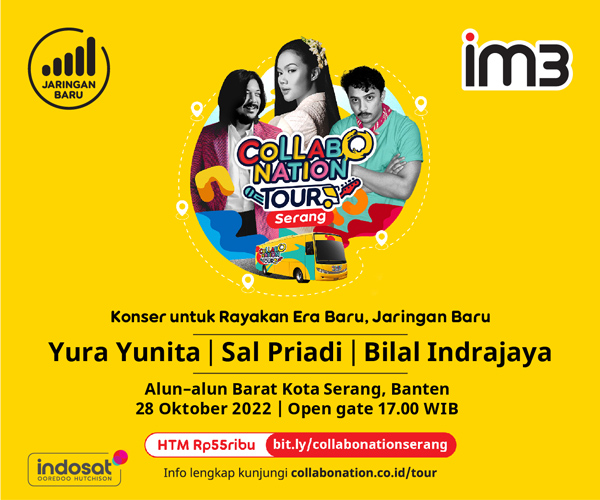
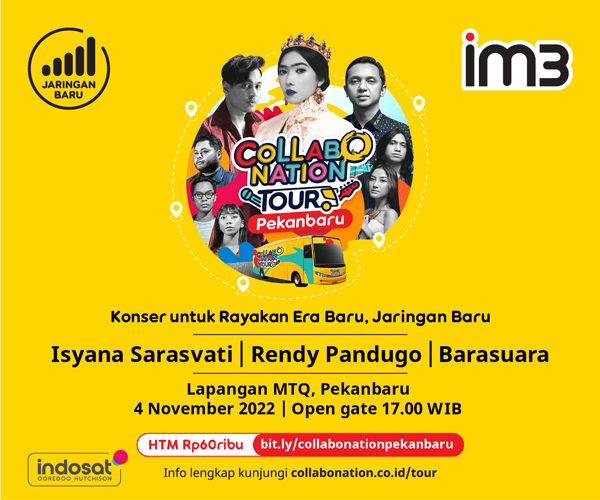
awd

Changed region(s): [[0.27, 0.06, 0.72, 0.6], [0.06, 0.66, 0.93, 0.93]]

diff --git a/m.idntimes/inarticle/im3/index.html b/m.idntimes/inarticle/im3/index.html
@@ -1541,7 +1541,7 @@ function callAnalytics(path, queryString) {
             <!-- 300x250 -->
             
             <div class="wrapper-ads inarticle-ads-wrapper"> 
-                <a href="https://collabonation.co.id/tour/collabonation-tour-serang-1666696892?utm_source=website&utm_medium=socialwebsite&utm_campaign=collabonationtourserangsocial&utm_term=collabonationtourserang&utm_content=website" target="_blank" style="position: relative;left: 0;right: 0;margin: auto;">
+                <a href="https://collabonation.co.id/tour/collabonation-tour-pekanbaru-1667291179" target="_blank" style="position: relative;left: 0;right: 0;margin: auto;">
                     <img src="300x250.jpg" alt="300x250" style="max-width: 300px; height: 250px;">
                 </a>
             </div>
